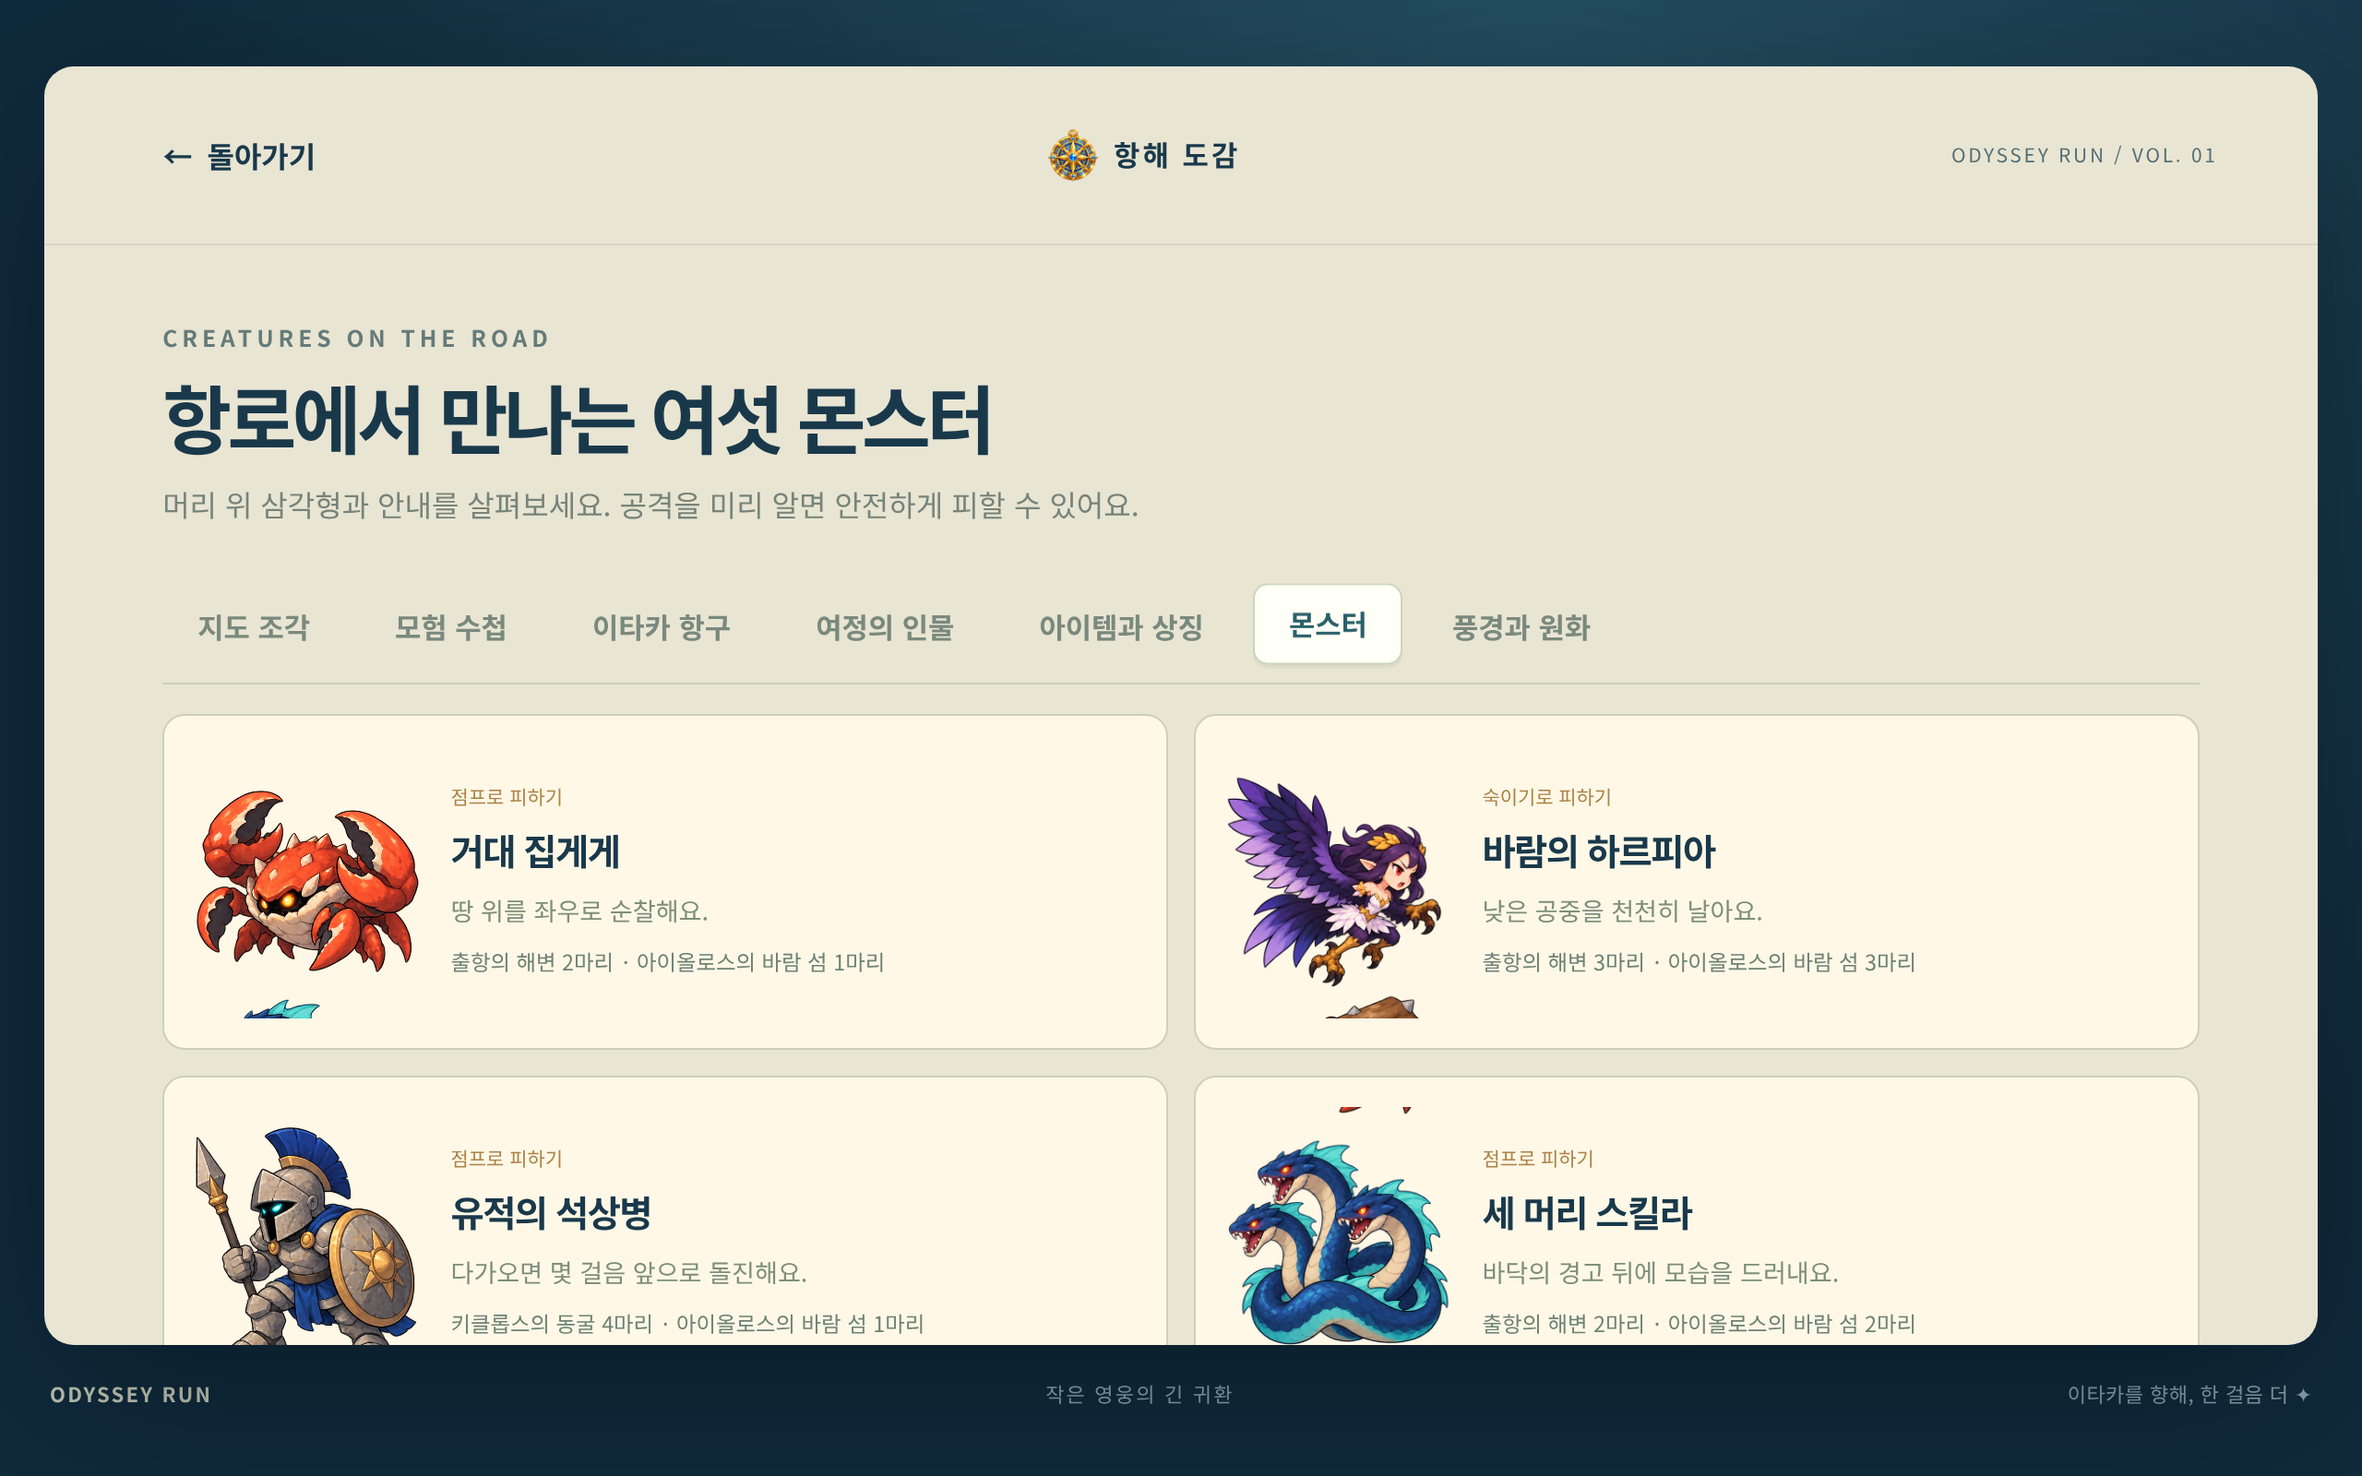
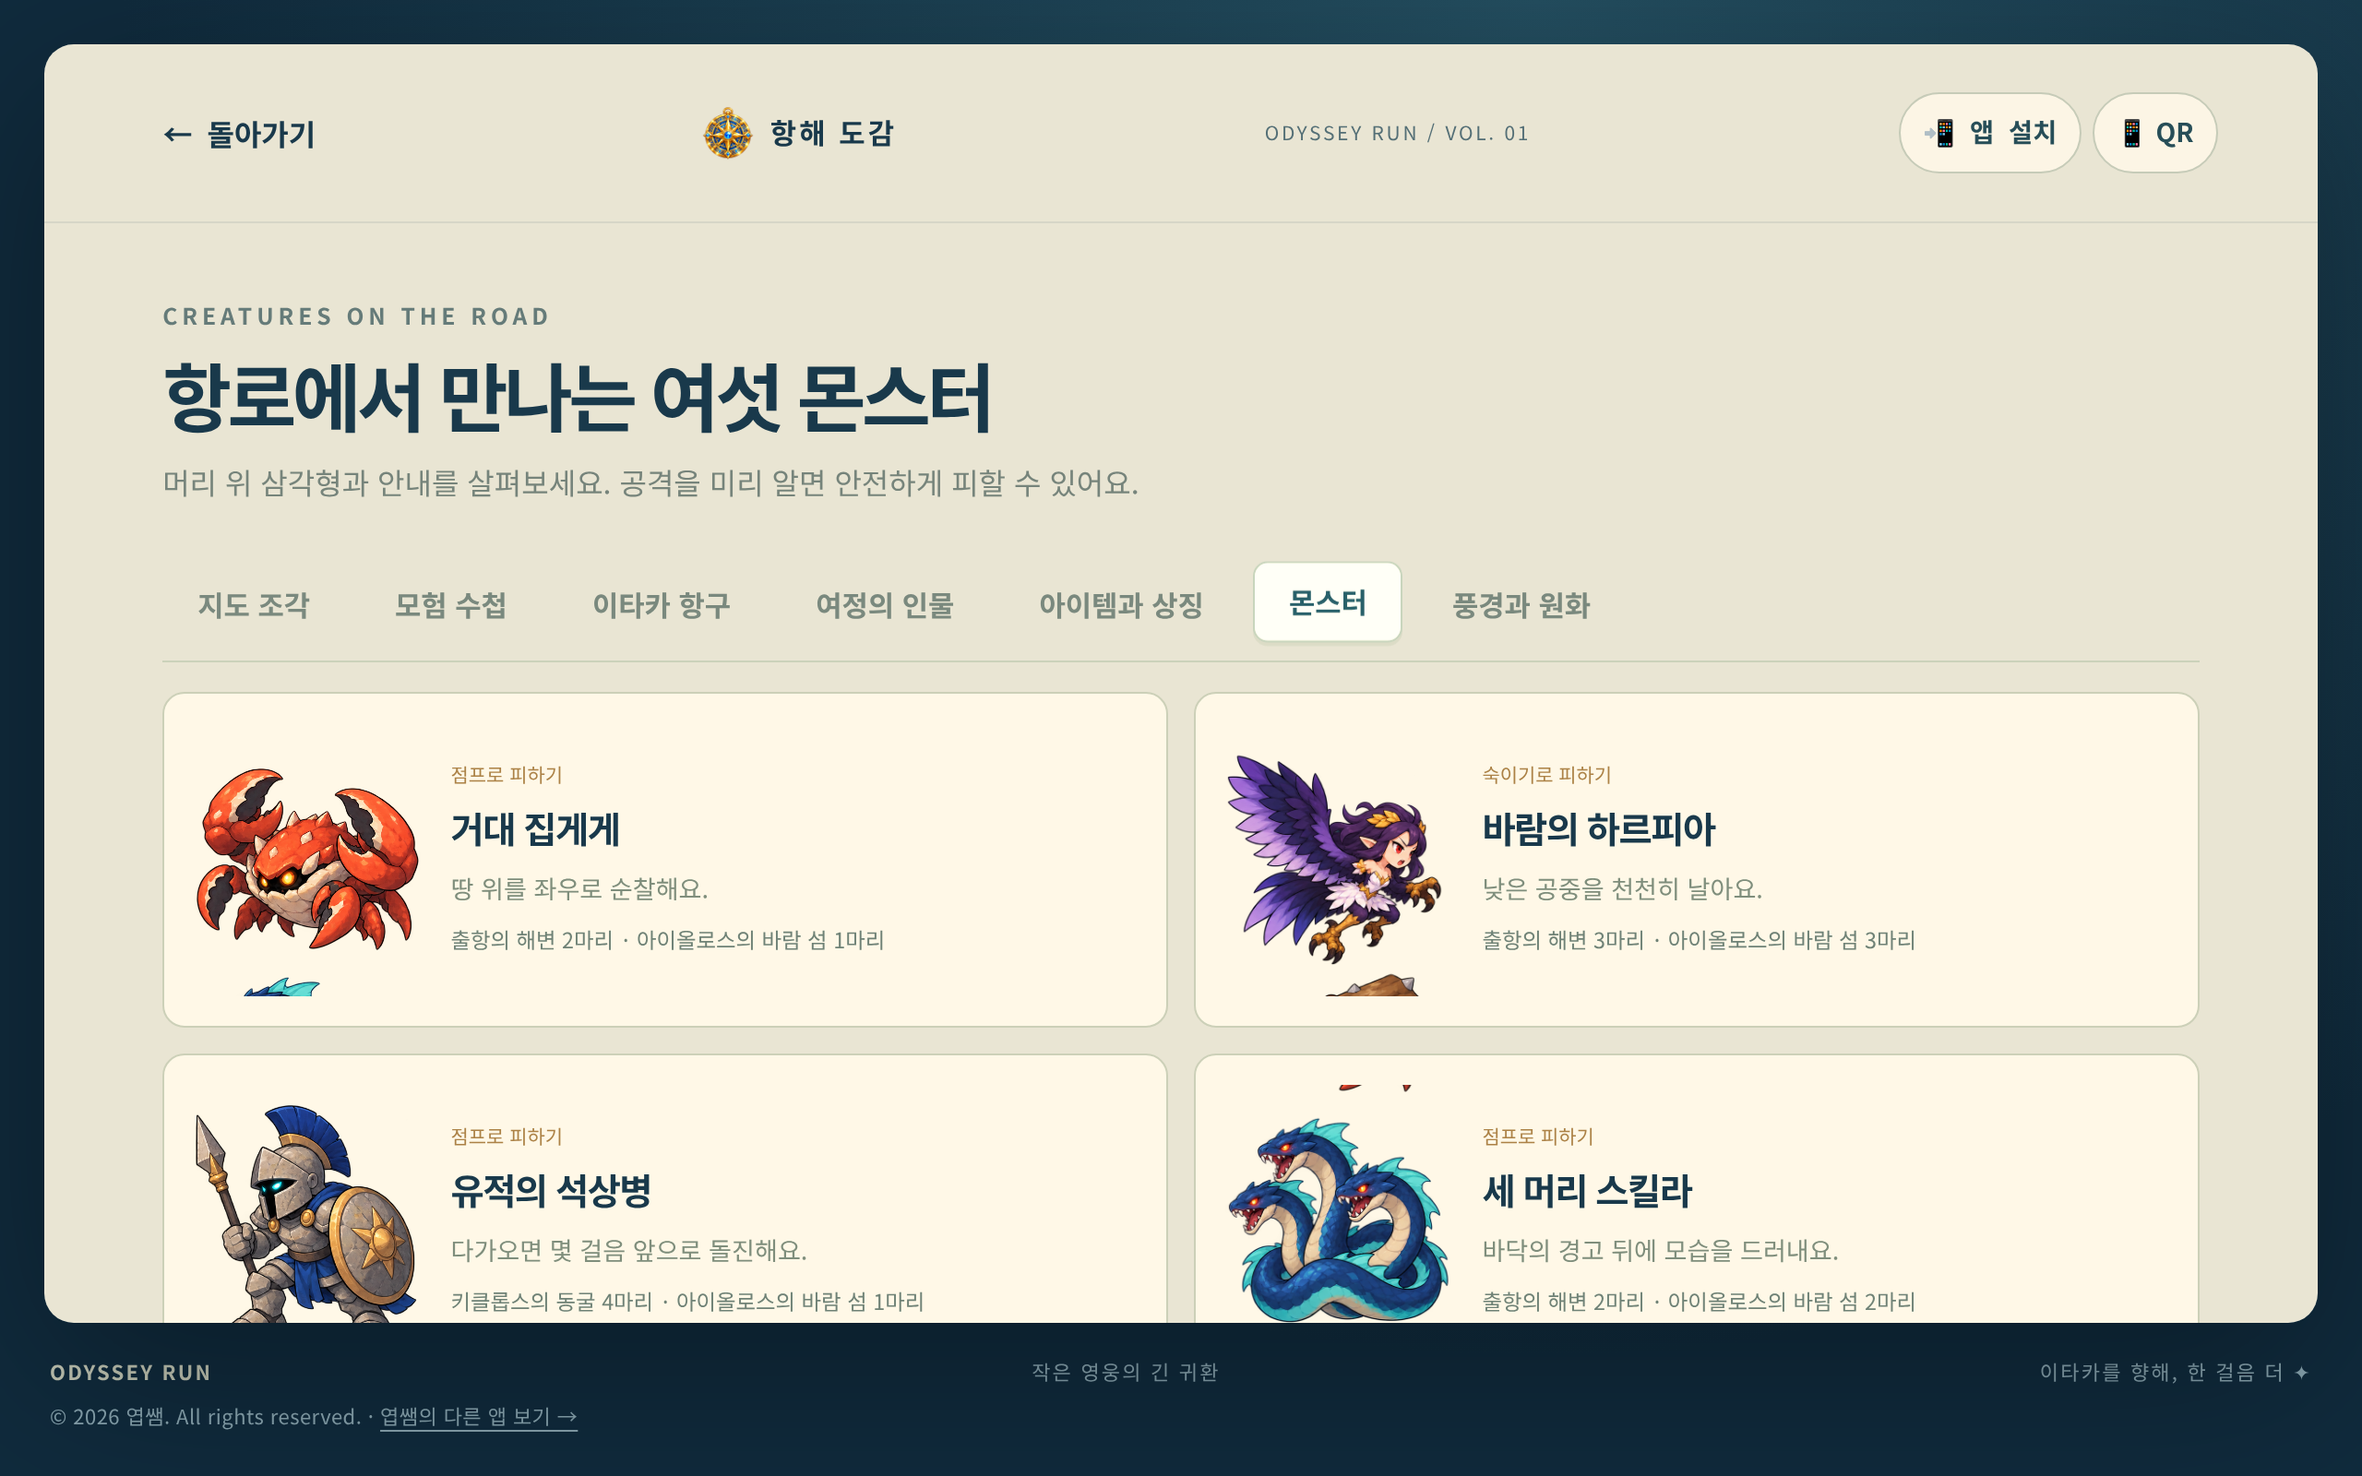
Verify island music alongside app installation updates

diff --git a/scripts/adventure-final-qa.ts b/scripts/adventure-final-qa.ts
@@ -4,7 +4,7 @@ import {routeInputs} from './check-routes';
 const url=process.env.QA_URL||'http://localhost:4176/Odyssey-Run/',production=url.startsWith('https:'),prefix=production?'adventure-final-deployed':'adventure-final';
 const b=await chromium.launch({executablePath:'/usr/bin/chromium',args:['--no-sandbox'],...(production?{proxy:{server:process.env.HTTPS_PROXY||process.env.HTTP_PROXY!}}:{})});const errors:string[]=[],failures:string[]=[];
 try{
- const c=await b.newContext({viewport:{width:740,height:300},deviceScaleFactor:2,isMobile:true,hasTouch:true,acceptDownloads:true});await c.addInitScript(()=>{(window as any).__draws=0;const draw=CanvasRenderingContext2D.prototype.drawImage;CanvasRenderingContext2D.prototype.drawImage=function(this:CanvasRenderingContext2D,...a:any[]){if(this.canvas.parentElement?.id==='game')(window as any).__draws++;return (draw as Function).apply(this,a);} as typeof draw;});const p=await c.newPage();p.on('pageerror',e=>errors.push(e.message));p.on('response',r=>{if(r.status()>=400)failures.push(`${r.status()} ${r.url()}`);});await p.clock.install();const response=await p.goto(url);await p.waitForSelector('.home');const bundle=await p.locator('script[type="module"]').getAttribute('src');expect(bundle).toBe((await readFile('dist/index.html','utf8')).match(/<script[^>]+src="([^"]+)"/)![1]);await p.clock.pauseAt((await p.evaluate(()=>Date.now()))+1000);
+ const c=await b.newContext({viewport:{width:740,height:300},deviceScaleFactor:2,isMobile:true,hasTouch:true,acceptDownloads:true});await c.addInitScript(()=>{(window as any).__draws=0;const draw=CanvasRenderingContext2D.prototype.drawImage;CanvasRenderingContext2D.prototype.drawImage=function(this:CanvasRenderingContext2D,...a:any[]){if(this.canvas.parentElement?.id==='game')(window as any).__draws++;return (draw as Function).apply(this,a);} as typeof draw;});const p=await c.newPage();p.on('pageerror',e=>errors.push(e.message));p.on('response',r=>{if(r.status()>=400)failures.push(`${r.status()} ${r.url()}`);});await p.clock.install();const response=await p.goto(url);await p.waitForSelector('.home');const bundle=await p.locator('script[type="module"]').getAttribute('src');expect(bundle).toBe((await readFile('dist/index.html','utf8')).match(/<script(?=[^>]*type="module")[^>]*src="([^"]+)"/)![1]);await p.clock.pauseAt((await p.evaluate(()=>Date.now()))+1000);
  await p.locator('[data-action="quit"]').tap();await p.clock.runFor(1000);const draws=await p.evaluate(()=>(window as any).__draws);await p.clock.runFor(11000);expect(await p.evaluate(()=>(window as any).__draws)).toBe(draws);await p.evaluate(()=>{window.close=()=>{throw new DOMException('blocked','SecurityError');};});await p.locator('[data-action="close-tab"]').tap();await expect(p.locator('#notice')).toContainText('직접 닫아');await p.locator('[data-action="home"]').tap();await p.clock.runFor(100);expect(await p.evaluate(()=>(window as any).__draws)).toBeGreaterThan(draws);
  await p.locator('[data-action="settings"]').tap();await p.locator('#import-file').setInputFiles('artifacts/adventure-mobile-save.json');await p.locator('[data-action="import-confirm"]').tap();await p.locator('[data-action="home"]').tap();await p.locator('[data-action="harbor"]').tap();await p.clock.runFor(34);await expect(p.locator('.harbor-art .built')).toHaveCount(5);await p.screenshot({path:`artifacts/${prefix}-harbor.png`});await p.locator('[data-action="home"]').tap();await p.locator('[data-action="islands"]').first().tap();await p.locator('[data-action="stage:cave"]').tap();await p.locator('input[name="goal"][value="sky"]').check();await p.locator('[data-action="start"]').tap();while(await p.locator('.countdown').count())await p.clock.runFor(17);await expect(p.locator('#ghost-marker')).toBeVisible();
  const session=await c.newCDPSession(p);let held:any=null;const point=async(type:string,id:number)=>{const rect=(await p.locator(`[data-control="${type}"]`).boundingBox())!;return {id,x:rect.x+rect.width/2,y:rect.y+rect.height/2};};const distance=async()=>Number(await p.locator('#progress').getAttribute('data-distance'));const advance=async(x:number)=>{while(await distance()<x)await p.clock.runFor(Math.max(17,Math.ceil((x-await distance())/320*1000)));};

diff --git a/scripts/music-qa.ts b/scripts/music-qa.ts
@@ -19,7 +19,7 @@ try{
     node.stop=((...a:any[])=>{if(entry){entry.stopped=true;entry.stopTime=ctx.currentTime;}return (stop as any)(...a);}) as typeof node.stop;return node;
    };
   });
-  const p=await c.newPage();p.on('pageerror',e=>errors.push(e.message));p.on('response',r=>{if(r.status()>=400)failures.push(`${r.status()} ${r.url()}`);});await p.clock.install();const response=await p.goto(url);await p.waitForSelector('.home');await p.clock.pauseAt((await p.evaluate(()=>Date.now()))+1000);
+  const p=await c.newPage();p.on('pageerror',e=>errors.push(e.message));p.on('response',r=>{if(r.status()>=400)failures.push(`${r.status()} ${r.url()}`);});await p.clock.install();const response=await p.goto(url);await p.waitForSelector('.home');const bundle=await p.locator('script[type="module"]').getAttribute('src');expect(bundle).toBe((await readFile('dist/index.html','utf8')).match(/<script(?=[^>]*type="module")[^>]*src="([^"]+)"/)![1]);await p.clock.pauseAt((await p.evaluate(()=>Date.now()))+1000);
   const state=()=>p.evaluate(()=>{const q=(window as any).__musicQA;let rms=0;for(const a of q.analysers){const v=new Float32Array(a.fftSize);a.getFloatTimeDomainData(v);rms=Math.max(rms,Math.sqrt(v.reduce((sum,n)=>sum+n*n,0)/v.length));}return {entries:q.entries,active:q.entries.filter((e:any)=>!e.stopped).length,decoded:q.decoded,oscillators:q.oscillators,rms};});
   const ready=async()=>{let i=0;while(await p.locator('.countdown').count()&&i++<250)await p.clock.runFor(17);await expect(p.locator('.countdown')).toHaveCount(0);};
   await p.locator('[data-action="settings"]').click();await p.locator('#import-file').setInputFiles('artifacts/legacy-v1-save.json');await p.locator('[data-action="import-confirm"]').click();await p.locator('[data-setting="music"]').check();await p.locator('[data-setting="sfx"]').check();await p.locator('[data-action="home"]').click();await p.locator('[data-action="islands"]').first().click();
@@ -33,7 +33,7 @@ try{
    }
    await p.evaluate(()=>window.dispatchEvent(new PageTransitionEvent('pagehide',{persisted:true})));await p.clock.runFor(11000);expect((await state()).active).toBe(0);await p.locator('[data-action="islands"]').click();stages.push({id,decodedDuration:playing.entries.at(-1).duration,peak:playing.entries.at(-1).peak,measuredRms:signal});
   }
-  await p.locator('[data-action="home"]').click();await p.locator('[data-action="quit"]').click();expect((await state()).active).toBe(0);await p.screenshot({path:`artifacts/${prefix}-${mobile?'mobile':'desktop'}-quit.png`});results.push({mobile,status:response?.status(),stages,audio:await state()});await c.close();console.log(prefix,mobile?'mobile':'desktop','all three MP3, signal, pause/resume, mute/SFX, retry and exit passed');
+  await p.locator('[data-action="home"]').click();await p.locator('[data-action="quit"]').click();expect((await state()).active).toBe(0);await p.screenshot({path:`artifacts/${prefix}-${mobile?'mobile':'desktop'}-quit.png`});results.push({mobile,bundle,status:response?.status(),stages,audio:await state()});await c.close();console.log(prefix,mobile?'mobile':'desktop','all three MP3, signal, pause/resume, mute/SFX, retry and exit passed');
  }
  expect(errors).toEqual([]);expect(failures).toEqual([]);await writeFile(`artifacts/${prefix}-results.json`,JSON.stringify({url,browser:await b.version(),checkedAt:new Date().toISOString(),environment:'Linux headless browser; mobile emulation; real AudioContext decoding/render graph, virtual gameplay clock; no physical speaker listening',results,errors,failures},null,2));
 }finally{await b.close();}

diff --git a/scripts/expansion-qa.ts b/scripts/expansion-qa.ts
@@ -6,7 +6,7 @@ const production=url.startsWith('https:'),prefix=production?'expansion-deployed'
 const browser=await chromium.launch({executablePath:'/usr/bin/chromium',args:['--no-sandbox'],...(production?{proxy:{server:process.env.HTTPS_PROXY||process.env.HTTP_PROXY!}}:{})});
 const errors:string[]=[],failures:string[]=[];
 try{
- const p=await browser.newPage({viewport:{width:1280,height:800},deviceScaleFactor:2});p.on('pageerror',e=>errors.push(e.message));p.on('response',r=>{if(r.status()>=400)failures.push(`${r.status()} ${r.url()}`);});await p.clock.install();const response=await p.goto(url);await p.waitForSelector('.home');const bundle=await p.locator('script[type="module"]').getAttribute('src');const expected=(await readFile('dist/index.html','utf8')).match(/<script[^>]+src="([^"]+)"/)![1];expect(bundle).toBe(expected);await p.clock.pauseAt((await p.evaluate(()=>Date.now()))+1000);
+ const p=await browser.newPage({viewport:{width:1280,height:800},deviceScaleFactor:2});p.on('pageerror',e=>errors.push(e.message));p.on('response',r=>{if(r.status()>=400)failures.push(`${r.status()} ${r.url()}`);});await p.clock.install();const response=await p.goto(url);await p.waitForSelector('.home');const bundle=await p.locator('script[type="module"]').getAttribute('src');const expected=(await readFile('dist/index.html','utf8')).match(/<script(?=[^>]*type="module")[^>]*src="([^"]+)"/)![1];expect(bundle).toBe(expected);await p.clock.pauseAt((await p.evaluate(()=>Date.now()))+1000);
  await p.locator('[data-action="islands"]').first().click();await p.locator('[data-action="stage:beach"]').click();await p.locator('[data-action="start"]').click();while(await p.locator('.countdown').count())await p.clock.runFor(17);
  const x=async()=>Number(await p.locator('#progress').getAttribute('data-distance'));const advance=async(target:number)=>{while(await x()<target)await p.clock.runFor(Math.max(17,Math.min(200,Math.ceil((target-await x())/320*1000))));};
  const plan=routeInputs('beach'),inputs=[...plan.jumps.filter(x=>x<7800).map(x=>({x,type:'jump'})),...plan.slides.filter(s=>s.start<7800).flatMap(s=>[{x:s.start,type:'down'},{x:s.end,type:'up'}])].sort((a,b)=>a.x-b.x);

diff --git a/scripts/music-failure-qa.ts b/scripts/music-failure-qa.ts
@@ -2,7 +2,7 @@ import {chromium,expect} from '@playwright/test';
 import {writeFile} from 'node:fs/promises';
 const b=await chromium.launch({executablePath:'/usr/bin/chromium',args:['--no-sandbox']});const results:any[]=[];
 try{for(const mode of ['missing','corrupt','blocked-resume']){
- const c=await b.newContext({viewport:{width:844,height:390},isMobile:true,hasTouch:true}),p=await c.newPage(),errors:string[]=[];p.on('pageerror',e=>errors.push(e.message));
+ const c=await b.newContext({viewport:{width:844,height:390},isMobile:true,hasTouch:true,serviceWorkers:'block'}),p=await c.newPage(),errors:string[]=[];p.on('pageerror',e=>errors.push(e.message));
  if(mode==='missing')await p.route('**/assets/audio/*.mp3',r=>r.fulfill({status:404,body:'not found'}));
  if(mode==='corrupt')await p.route('**/assets/audio/*.mp3',r=>r.fulfill({status:200,contentType:'audio/mpeg',body:'not a valid MP3'}));
  if(mode==='blocked-resume')await c.addInitScript(()=>{AudioContext.prototype.resume=()=>Promise.reject(new DOMException('Blocked','NotAllowedError'));});

diff --git a/QA.md b/QA.md
@@ -450,3 +450,5 @@ QA_URL=http://localhost:4174/qa-odyssey/ npx tsx scripts/performance-qa.ts
 - 저장/오디오 접근 차단/필수 이미지 재시도/빠른 재시작(`edge-results.json`), 나침반 실제 추락 복귀·중복 점수 방지·이전 v1 파일의 정확한 기록/설정 복원(`expansion-results.json`) 회귀도 통과했습니다.
 
 실제 스피커/이어폰 청취, 곡 끝의 음악적 연결감, 실제 Android/iPhone 장치와 장시간 발열은 미실행입니다. 브라우저 신호/상태 검증과 사람의 청취 평가를 구분합니다. 음악 로딩은 게임 시작을 막지 않으며 외부 Suno API/스트리밍/분석 SDK를 추가하지 않았습니다.
+
+- 원격 `5549946`의 앱 설치/QR/공유/서비스워커 변경을 rebase로 보존하고 합쳐진 빌드에서 Chromium의 전체 음원 시험·음원 오류 시험·기록 복원을 재실행해 통과했습니다. 고의 오류 주입 시험은 서비스워커를 차단해 캐시가 실패 조건을 우회하지 않게 했고, 일반 재생 시험에서는 기본 서비스워커를 유지했습니다. 추가 정적 스크립트가 있어 빌드 비교 도구는 `type="module"` 진입점만 선택하도록 수정했습니다.

diff --git a/ASSET_CREDITS.md b/ASSET_CREDITS.md
@@ -51,7 +51,7 @@
 | 배·거인·장애물 | `public/assets/{boat,giant,crate,pillar,gate,rock}.svg` | 자체 벡터 그래픽 |
 | 별빛과 최초 아이콘 SVG | `public/assets/{star,map,shield,wings,magnet,apple,compass}.svg` | 별빛은 현재 사용, 나머지 최초 아이콘은 이전 버전 보존 |
 | 지면·바람·피드백 | `src/scenes/World.ts` | 자체 절차적 그래픽 |
-| 배경 선율·효과음 | `src/systems/audio.ts` | 자체 합성 음향, 외부 음원 없음 |
+| 효과음 | `src/systems/audio.ts` | 자체 합성 효과음. 배경음악은 아래 사용자 제공 Suno 세 곡 |
 | 메뉴 글꼴 | 시스템 글꼴 스택 | 기기 기본 글꼴, 배포 폰트 없음 |
 
 자체 제작 SVG·코드는 이 프로젝트 소스와 함께 수정·재사용할 수 있습니다. 오디세이아의 신화와 인물은 고대 원전에서 착안했고, 짧은 도감 설명은 새로 작성했습니다.
